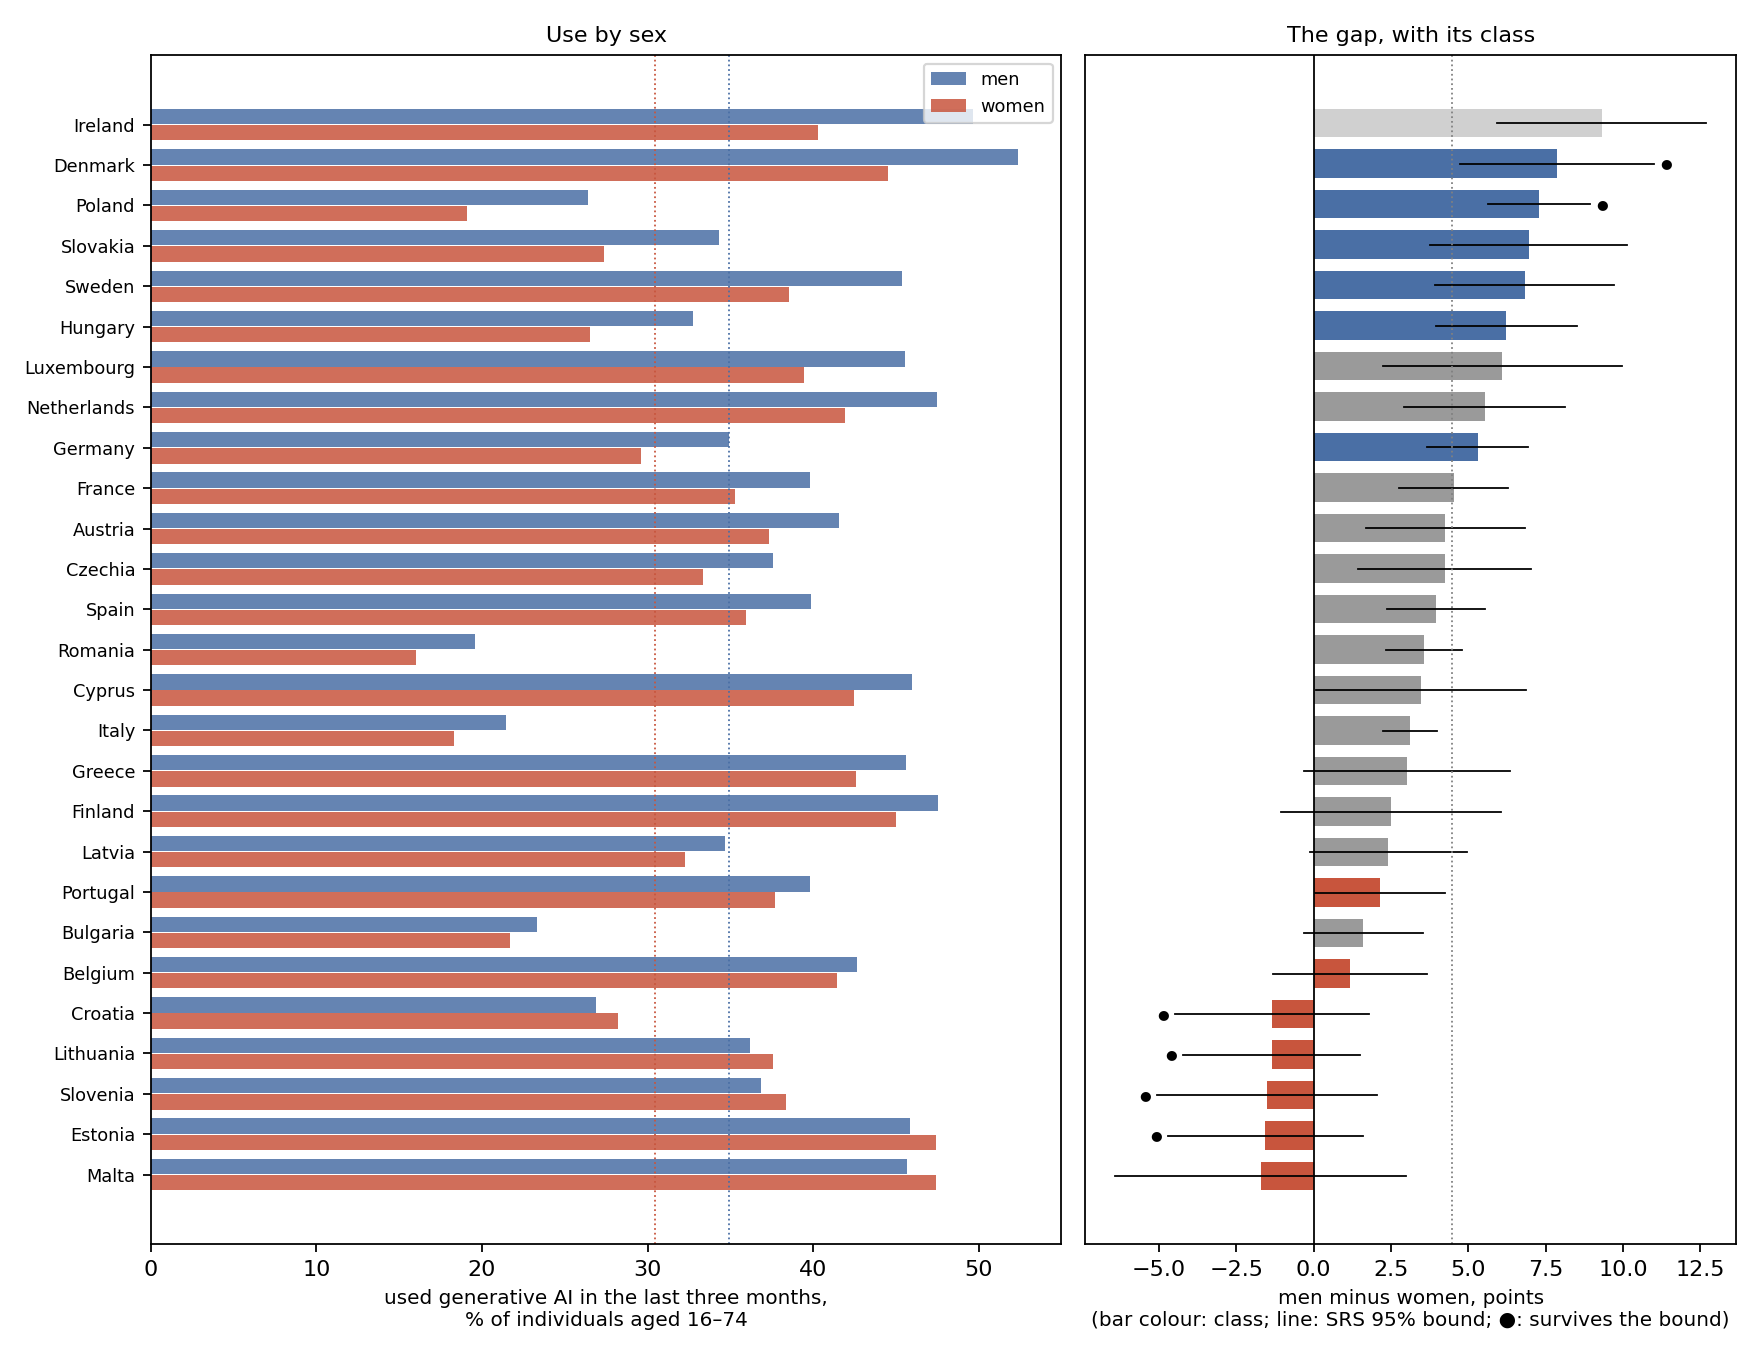
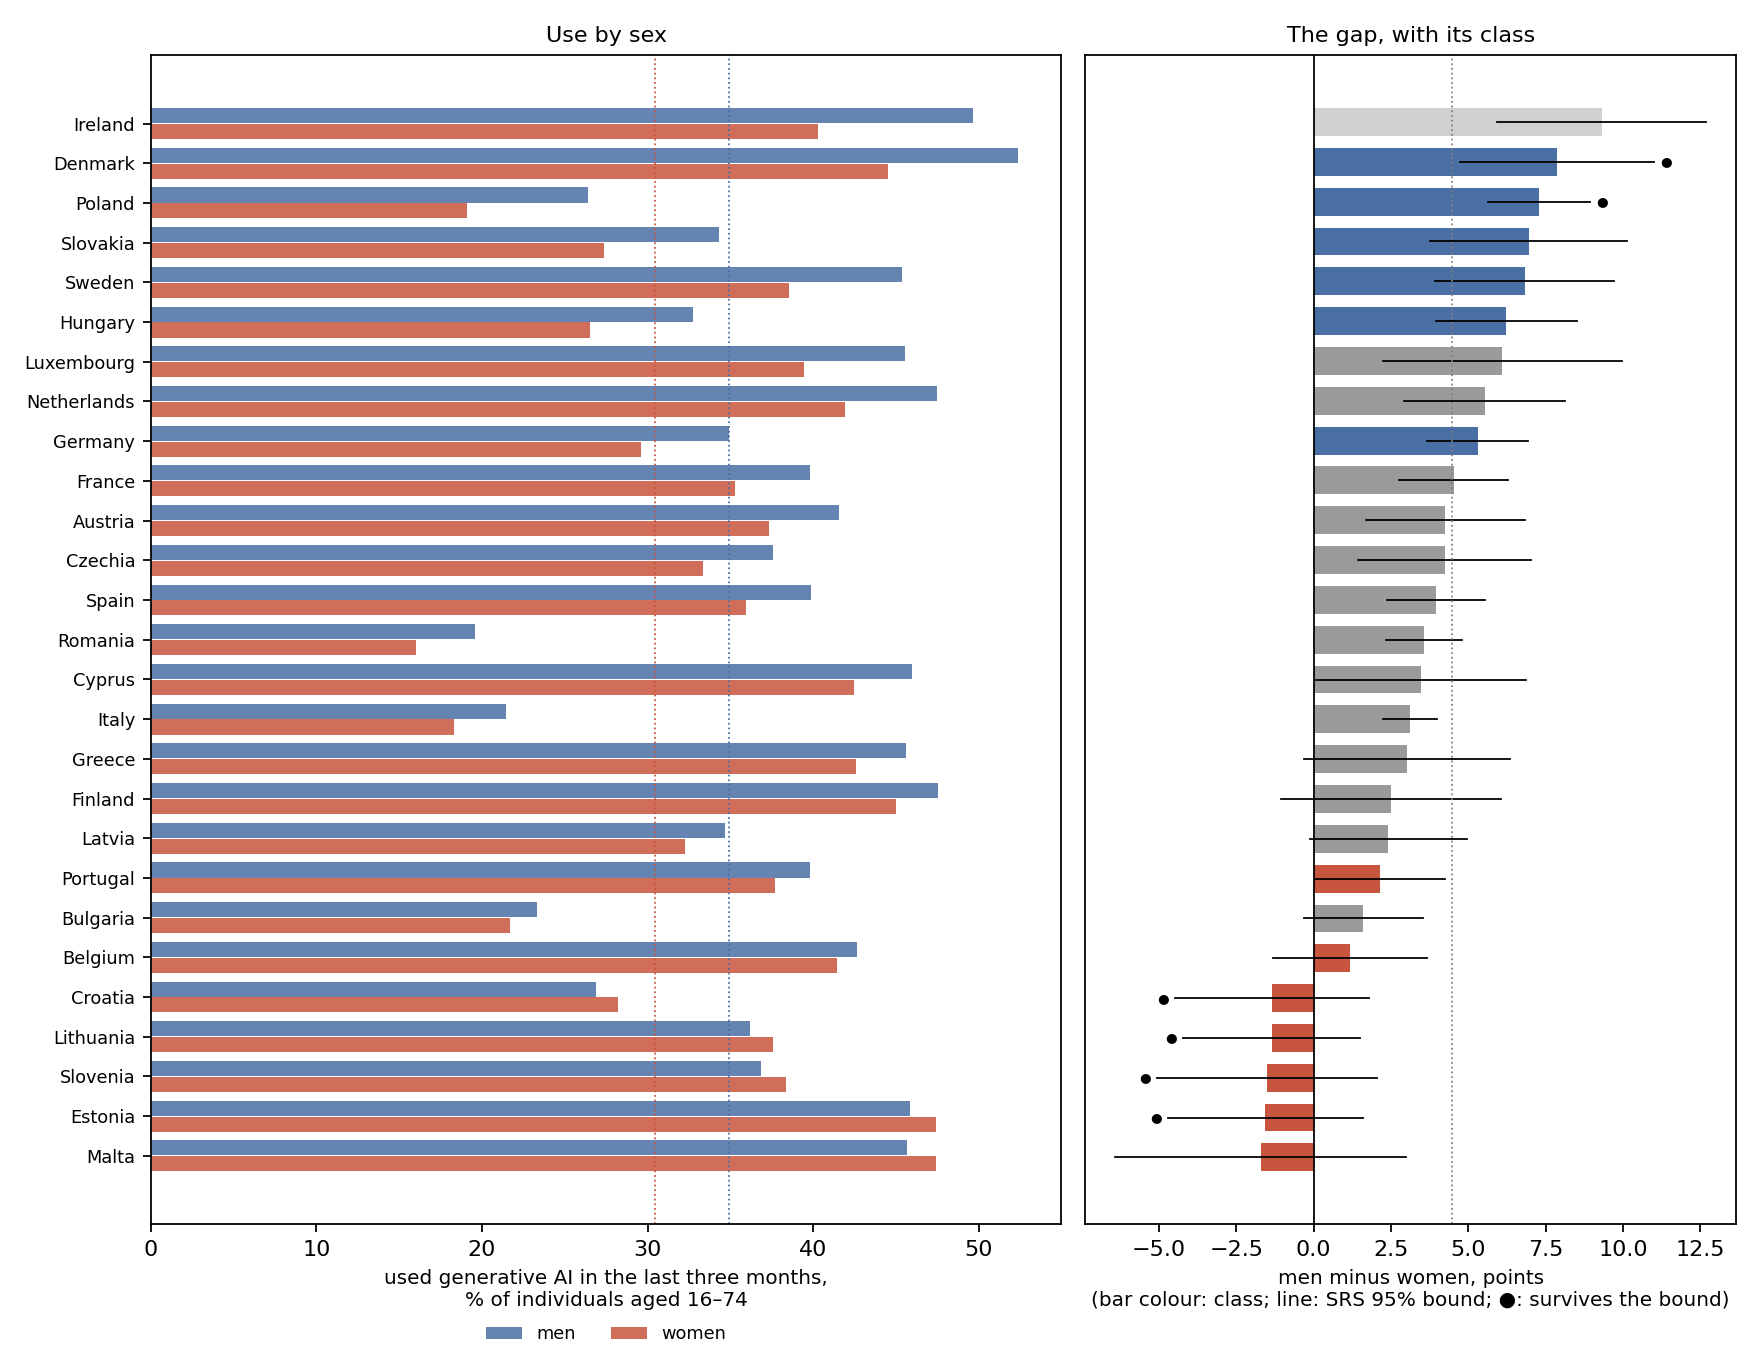
gender1: second-read opens applied (legend, zero cells, internet-use sentence, 13-of-27 wording, over-one-point key)

diff --git a/posts/gender1/scripts/08_results_and_figures.py b/posts/gender1/scripts/08_results_and_figures.py
@@ -18,7 +18,7 @@ fig, ax = plt.subplots(1, 2, figsize=(11, 8.5), gridspec_kw={"width_ratios": [1.
 y = np.arange(len(order))
 ax[0].barh(y, [ov[g]["I_IUAI|PC_IND"]["M"] for g in order], color="#4a6fa5", alpha=.85, height=.38, label="men")
 ax[0].barh(y - .4, [ov[g]["I_IUAI|PC_IND"]["F"] for g in order], color="#c8553d", alpha=.85, height=.38, label="women")
-ax[0].set_yticks(y - .2); ax[0].set_yticklabels([NAME[g] for g in order], fontsize=8); ax[0].set_xlabel("used generative AI in the last three months,\n% of individuals aged 16–74", fontsize=9); ax[0].legend(loc="upper right", fontsize=8)
+ax[0].set_yticks(y - .2); ax[0].set_yticklabels([NAME[g] for g in order], fontsize=8); ax[0].set_xlabel("used generative AI in the last three months,\n% of individuals aged 16–74", fontsize=9); ax[0].legend(loc="lower center", bbox_to_anchor=(0.5, -0.115), ncol=2, frameon=False, fontsize=8)
 ax[0].axvline(ov["EU27_2020"]["I_IUAI|PC_IND"]["M"], color="#4a6fa5", lw=.8, ls=":"); ax[0].axvline(ov["EU27_2020"]["I_IUAI|PC_IND"]["F"], color="#c8553d", lw=.8, ls=":")
 colors = {"large-gap": "#4a6fa5", "small-gap": "#c8553d", "reversed": "#c8553d", "not distinguishable": "#9a9a9a", "not classifiable": "#d0d0d0"}
 gaps = [ov[g]["I_IUAI|PC_IND"]["gap"] for g in order]
@@ -39,7 +39,7 @@ fig, ax = plt.subplots(figsize=(7.5, 9))
 im = ax.imshow(M, cmap="RdBu_r", vmin=-12, vmax=12, aspect="auto")
 ax.set_xticks(range(6)); ax.set_xticklabels(["16–24", "25–34", "35–44", "45–54", "55–64", "65–74"]); ax.set_yticks(range(len(order2))); ax.set_yticklabels([NAME[g] for g in order2], fontsize=8)
 for i in range(len(order2)):
-    for j in range(6): ax.text(j, i, ("0" if abs(M[i, j]) < 0.5 else f"{M[i, j]:+.0f}"), ha="center", va="center", fontsize=6.5, color="black" if abs(M[i, j]) < 8 else "white")
+    for j in range(6): ax.text(j, i, ("0" if round(M[i, j]) == 0 else f"{M[i, j]:+.0f}"), ha="center", va="center", fontsize=6.5, color="black" if abs(M[i, j]) < 8 else "white")
 eu = [G["bands"]["EU27_2020"]["PC_IND"][b]["gap"] for b in BANDS]
 ax.set_title("Men minus women, points, by age band (EU27 profile: " + ", ".join(f"{v:+.1f}" for v in eu) + ")", fontsize=9)
 plt.colorbar(im, ax=ax, fraction=.03, label="percentage points"); plt.tight_layout(); plt.savefig(os.path.join(FIG, "fig2_country_by_age.png"), dpi=160); plt.close()
@@ -99,7 +99,8 @@ res = {"post": "gender1", "question": "Where is the gender gap in generative AI 
                                        "ratio_vs_standardised_registered_reading": S["changes_ratio_vs_std"], "ratio_vs_standardised_recut_26": S["changes_ratio_vs_std_recut_26"]}},
        "purposes": {k: {"participation": {kk: vv for kk, vv in v["participation"].items() if kk != "values"}, "among_users": {kk: vv for kk, vv in v["among_users"].items() if kk != "values"}, "sign_flips": v["sign_flips_between_denominators"]} for k, v in D["purposes"].items()},
        "internet_composition": {"band_medians": D["internet_composition_band_medians"], "N": D["internet_set_N"], "eu27": D["internet"]["EU27_2020"], "eu27_decomposition": D["internet_decomposition_eu27"],
-                                "reading": "a difference of gaps on two denominators; where internet use is below 100% its sign is a rescaling of the internet-user gap, not a composition that favours women; the sex difference in implied internet use is within a point in every band at EU27 level"},
+                                "over_one_point_by_band": {b: sum(1 for g in EU27 if b in D["internet"][g]["bands"] and abs(D["internet"][g]["bands"][b]["composition_share"]) > 1) for b in BANDS},
+                                "reading": "a difference of gaps on two denominators; where internet use is below 100% its sign is a rescaling of the internet-user gap, not a composition that favours women; the sex difference in implied internet use is at most 1.1 points in any band at EU27 level and moves the gap by under 0.3 points"},
        "sets": D["sets"], "flagged_appendix_rows": len(D["flagged_appendix"]), "bound": {"assumptions": P["assumptions"], "class_rule": P["class_rule"], "design_effect_check": P["design_effect_check"]},
        "second_implementation": I2, "triangulation": {"leg_i": {k: v for k, v in T["leg_i"].items() if k != "values"}, "leg_ii": T["leg_ii"]},
        "deviations": [{"id": "D3", "what": "H-composition's crude tercile re-cut on the 26 geographies with a standardised gap (analyst's reading) rather than the registered literal reading (crude tercile over all 27, compared on the intersection); both counts reported", "effect": "3 changes (CZ, FR, LV) against 2 (CZ, LV); verdict supported under either; distinguishable 0 under either"},
@@ -107,11 +108,11 @@ res = {"post": "gender1", "question": "Where is the gender gap in generative AI 
                       {"id": "D1", "what": "class-rule precedence: a geography in the bottom tercile on all three measures that is also reversed on both denominators is classed small-gap, with its reversed flag reported beside it (the registered rule lists both classes without precedence)", "effect": "no count changes; the reversed set is reported as a flag"},
                       {"id": "D2", "what": "triangulation leg (ii) dropped: Henseke's country gaps are published only as a figure image", "effect": "one exploratory leg fewer"}]}
 write_json("results.json", res)
-figs = {"fig1": {"file": "outputs/figures/fig1_rates_and_gaps.png", "script": "scripts/08_results_and_figures.py", "caption": "**In every EU country but five, men were more likely than women to have used generative AI in the three months before their 2025 interview; the gap runs from about −2 to +9 points and its class is stable across measures for only 13 of 27.** The male lead exceeds the country's sampling bound in 17 of the 22 countries where men lead; none of the five female leads does. Plotted, left: the share of individuals aged 16–74 who used generative AI in the three months before the interview, by sex, EU member states, 2025 ICT survey (dotted lines: EU27 men and women). Right: men minus women in percentage points; bar colour is the persistent class under the registered rule (blue large-gap, red small-gap, grey not distinguishable, light grey not classifiable); the black line is the simple-random-sampling 95% bound from the national net sample, a lower bound; ● marks a class whose gap lies further than the bound from the tercile cut, not a lead distinguishable from zero. Source: Eurostat isoc_ai_iaiu, PC_IND; N = 27."},
+figs = {"fig1": {"file": "outputs/figures/fig1_rates_and_gaps.png", "script": "scripts/08_results_and_figures.py", "caption": "**In every EU country but five, men were more likely than women to have used generative AI in the three months before their 2025 interview; the gap runs from about −2 to +9 points, and 13 of 27 countries sit in the same tercile on all three measures (6 large-gap, 7 small-gap).** The male lead exceeds the country's sampling bound in 17 of the 22 countries where men lead; none of the five female leads does. Plotted, left: the share of individuals aged 16–74 who used generative AI in the three months before the interview, by sex, EU member states, 2025 ICT survey (dotted lines: EU27 men and women). Right: men minus women in percentage points; bar colour is the persistent class under the registered rule (blue large-gap, red small-gap, grey not distinguishable, light grey not classifiable); the black line is the simple-random-sampling 95% bound from the national net sample, a lower bound; ● marks a class whose gap lies further than the bound from the tercile cut, not a lead distinguishable from zero. Source: Eurostat isoc_ai_iaiu, PC_IND; N = 27."},
         "fig2": {"file": "outputs/figures/fig2_country_by_age.png", "script": "scripts/08_results_and_figures.py", "caption": "**Among 16-to-24-year-olds women lead in 20 of 26 countries; from 25 upward men lead in 17 to 22 of 26 depending on the band, and no single band holds the largest gap in a majority of countries.** Plotted: men minus women in points, by six age bands, for the 26 EU members with all twelve sex-by-age cells published and unflagged (Ireland lacks a usable 16–24 pair). Rows sorted by the overall gap. Cell values are the published differences; median band half-widths under simple random sampling run from about 4 points at 65–74 to 8 at 16–24, and exceed 10 for the smallest samples, so single cells are not distinguishable from their neighbours. Source: Eurostat isoc_ai_iaiu, PC_IND."},
         "fig3": {"file": "outputs/figures/fig3_purposes.png", "script": "scripts/08_results_and_figures.py", "caption": "**The male lead is in private and work use; for formal education the gap runs the other way in most countries, and more so among users.** Plotted: men minus women in points for each purpose, on two denominators: all individuals 16–74 (circles) and recent generative-AI users (squares). Purposes are multi-select and do not sum to overall use. EU members with usable pairs; N = 27 for each purpose on the all-individual denominator. Source: Eurostat isoc_ai_iaiu."},
         "fig4": {"file": "outputs/figures/fig4_crude_vs_standardised.png", "script": "scripts/08_results_and_figures.py", "caption": "**Applying the EU27 age structure to every country lowers the gap in 25 of 26 and moves two or three across a tercile cut, depending on whether the crude tercile is cut on all 27 countries or on the 26 with a standardised gap.** Plotted: each country's crude gap (x) against its gap after direct age standardisation with the EU27 2025 sex-pooled population weights (y); the dotted line is equality; red marks a country whose tercile differs between the two. Standardisation is defined only where all twelve band cells are usable (26 of 27; Ireland excluded). Source: Eurostat isoc_ai_iaiu and demo_pjan."},
-        "fig5": {"file": "outputs/figures/fig5_internet_composition.png", "script": "scripts/08_results_and_figures.py", "caption": "**None of the gender gap is an internet-use gap: the sex difference in recent internet use is within a point in every age band, and measuring among internet users instead of all individuals changes the gap by under a point at the median in every band.** The negative values are a rescaling of the internet-user gap onto a smaller base, not a composition that favours women; only at 65–74, where about a fifth of people are not recent internet users, does the rescaling exceed a point in ten countries. Plotted: the gap among all individuals minus the gap among recent internet users, by age band, one grey line per EU member with all six bands usable (26), the red line the median across them, the blue line the EU27 aggregate. Source: Eurostat isoc_ai_iaiu, PC_IND and PC_IND_IU3."}}
+        "fig5": {"file": "outputs/figures/fig5_internet_composition.png", "script": "scripts/08_results_and_figures.py", "caption": "**None of the gender gap is an internet-use gap: the sex difference in recent internet use is at most 1.1 points in any age band and moves the gap by under 0.3 points, and measuring among internet users instead of all individuals changes the gap by under a point at the median in every band.** The negative values are a rescaling of the internet-user gap onto a smaller base, not a composition that favours women; only at 65–74, where about a fifth of people are not recent internet users, does the rescaling exceed a point in ten countries. Plotted: the gap among all individuals minus the gap among recent internet users, by age band, one grey line per EU member with all six bands usable (26), the red line the median across them, the blue line the EU27 aggregate. Source: Eurostat isoc_ai_iaiu, PC_IND and PC_IND_IU3."}}
 json.dump(figs, open(os.path.join(OUT, "figures.json"), "w"), indent=1)
 
 # ---- check block

diff --git a/posts/gender1/notes/lab-notebook.md b/posts/gender1/notes/lab-notebook.md
@@ -46,3 +46,7 @@ No sex within employment, occupation or urbanisation; no trend; no intensity; no
 ## 2026-09-21 · frame correction from the human's independent draft (not a rule): fieldwork timing
 
 The pre-registration's §6 says fieldwork is "by convention in the first quarter of 2025". The national reference metadata show data collection mostly between late March and early August 2025 (DE 3 Mar–13 Jun; FR 24 Mar–20 Jun; SE 25 Mar–12 Jun; ES 31 Mar–13 Jul; PL 1 Apr–30 May; CZ and FI 7 Apr–3 Aug; LU 3 Jun–3 Aug; SK 2 May–27 Jun; AT Apr–Jul; RO 26 May–13 Jun; RS 15–28 Feb; EL Jul–Sep; DK's tables refer to Aug–Dec). "Recent use" therefore refers to windows spread across the first three quarters of 2025, and the country comparison is not a common calendar window. No rule, count or number changes; Figure 1's caption no longer says "early 2025"; the post's methodology and limitations carry the spread. Cross-check of the whole independent draft: `notes/crosscheck-independent-draft.md` (every number agrees).
+
+## 2026-09-21 · second read on the results (sesn_017BqKaB8BgfAWz9tGMzzxqb): PASS WITH CHANGES; three opens applied
+
+Figure 1's legend moved below the axes; Figure 2's zero cells formatted on the rounded value (Belgium at 25–34, exactly −0.50, prints "0"); Figure 5's caption and `internet_composition.reading` now say the sex difference in recent internet use is at most 1.1 points in any age band and moves the gap by under 0.3 points (the decomposition key gives 1.10 at 55–64 and 1.08 at 65–74); Figure 1's caption says "13 of 27 countries sit in the same tercile on all three measures (6 large-gap, 7 small-gap)"; `internet_composition.over_one_point_by_band` added for the caption's "ten countries". The referee's own claims list and red-team memo are refreshed by the referee in the confirming session.
